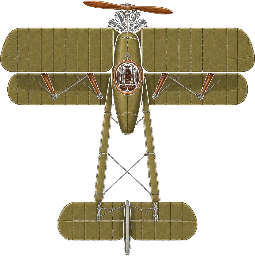
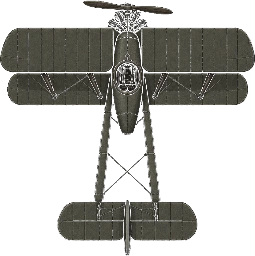
Port PR #92 Bloody April formation rework (Naval 10 Black Flight) + bug drone sprite tint

diff --git a/headon-stageboss-patterns.js b/headon-stageboss-patterns.js
@@ -22,8 +22,8 @@ export const BOSS_CATALOG = Object.freeze({
   ,'armored-harbor-fortress': {name:'장갑 크레인 항구요새', faction:'neutral', stage:7}
   ,'fliegerzug': {name:'무인기 모함열차 · 플리거주크', faction:'entente', stage:8}
   ,'treffas-wagen': {name:'대공개조형 트레파스바겐 · 거륜 육상전함', faction:'central', stage:8}
-  ,'jasta11-circus': {name:'야스타 11 · 붉은 서커스', faction:'central', stage:9}
-  ,'fe2b-flight': {name:'F.E.2b 비행 관 편대', faction:'entente', stage:9}
+  ,'jasta11-circus': {name:'야스타 11 플라잉 서커스', faction:'central', stage:9, pilot:'baron', formationSize:5}
+  ,'naval10-black-flight': {name:'네이벌 10 — 블랙 플라이트', faction:'entente', stage:9, pilot:'collishaw', formationSize:5}
 });
 const living = players => players.filter(p => p.alive);
 const randBetween = (rng,a,b) => a + (b-a)*rng();
@@ -672,15 +672,14 @@ export class TreffasWagen extends PatternBoss {
   }
 }
 
-// Bloody April (stage 9): the boss is a multi-aircraft wing, not a vehicle.
-// The body IS the formation leader — it flies like an ace and keeps
-// respawning wingmen on station. Killing the leader ends the encounter even
-// with wingmen still airborne.
+// Bloody April (stage 9): the body is the formation leader.  Its four named
+// wingmen are real, destructible aircraft and are launched once only.  Losing
+// a member permanently removes that attack lane or pair for the encounter.
 class FormationAceBoss extends PatternBoss {
-  constructor({wingman,...options}) {
+  constructor({wingmen,...options}) {
     super({...options,parts:[]});
-    this.coreRadius=30;this.ownsMotion129=true;this.a=-Math.PI/2;this.support129=true;
-    this.phase='intercept';this.wingman=wingman;this.slotCursor=0;this.timers.set('wing-spawn',0);
+    this.coreRadius=30;this.ownsMotion129=true;this.a=-Math.PI/2;this.formationBoss129=true;
+    this.phase='intercept';this.wingmen=wingmen;this.formationTotal=wingmen.length+1;this.wingLaunched=false;
   }
   steer(dt,tx,ty,turnRate){
     const a=Math.atan2(ty-this.y,tx-this.x),delta=Math.atan2(Math.sin(a-this.a),Math.cos(a-this.a));
@@ -692,65 +691,80 @@ class FormationAceBoss extends PatternBoss {
     this.x=Math.max(bounds.left+36,Math.min(bounds.right-36,this.x));
     this.y=Math.max(bounds.top+36,Math.min(bounds.bottom-36,this.y));
   }
-  // Wingmen stream in from just above the visible top edge and slot behind
-  // the leader; the escort behavior keeps them there.
-  maintainWing(dt,{bounds}){
-    if(!this.due('wing-spawn',dt,this.wingman.respawnEvery))return;
-    const span=bounds.right-bounds.left;let issued=0;
-    while((this.countMinions129?.()||0)<this.wingman.count&&issued++<this.wingman.count){
-      const i=this.slotCursor++;
-      const x=bounds.left+span*((i%4)+.5)/4,y=bounds.top-70;
-      this.command('spawn-minion',{minion:this.wingman.minion,faction:this.faction,plane:this.wingman.liveries[i%this.wingman.liveries.length],
-        behavior:this.wingman.behavior,leaderId:this.id,rearGunner:!!this.wingman.rearGunner,
-        formationIndex:i%this.wingman.count,formationCount:this.wingman.count,
-        x,y,a:Math.PI/2,life:this.wingman.life,fire:this.wingman.fire,maxSpeed:this.wingman.maxSpeed});
+  liveWingmen(){return this.formationStatus129?.()||[];}
+  launchWing(bounds){
+    if(this.wingLaunched)return;this.wingLaunched=true;
+    const span=bounds.right-bounds.left,hp=Math.max(90,Math.round(this.t.maxHp*.072));
+    for(let i=0;i<this.wingmen.length;i++){
+      const wing=this.wingmen[i],x=bounds.left+span*(i+.5)/this.wingmen.length,y=bounds.top-76-(i%2)*28;
+      this.command('spawn-minion',{minion:'formation-fighter',faction:this.faction,plane:wing.plane,behavior:wing.behavior,leaderId:this.id,
+        formationIndex:i,formationCount:this.wingmen.length,formationRole:wing.role,formationSide:wing.side,formationRank:wing.rank,
+        pairId:wing.pairId,callSign:wing.callSign,name:wing.callSign,x,y,a:Math.PI/2,life:1e9,fire:.45+i*.11,
+        maxSpeed:wing.maxSpeed,hp,visualScale:1,persistent:true});
     }
+  }
+  setFormationPhase(phase,p,age,duration){
+    const velocity=Math.hypot(p.vx||0,p.vy||0),heading=velocity>18?Math.atan2(p.vy,p.vx):(Number.isFinite(p.a)?p.a:-Math.PI/2);
+    if(this.phase!==phase){this.phase=phase;this.command('phase-change',{phase});
+      if(['concentrated-assault','sun-hunt','headon-assault'].includes(phase))this.command('reentry-warning',{x:this.x,y:this.y,targetX:p.x,targetY:p.y,seconds:.75});}
+    this.formationOrder={phase,age,duration,playerX:p.x,playerY:p.y,playerHeading:heading};
   }
 }
 export class JastaCircus extends FormationAceBoss {
   constructor(options) {
-    super({...options,kind:'jasta11-circus',wingman:{minion:'circus-wing',behavior:'circus-escort',count:4,respawnEvery:3.0,life:90,fire:1.05,maxSpeed:235,
-      liveries:['jasta11a_albatros','jasta11b_albatros','jasta11c_albatros','jasta11d_albatros']}});
-    this.speed=196;this.aceCycle=0;
+    super({...options,kind:'jasta11-circus',wingmen:[
+      {role:'left-outer',side:-1,rank:1,plane:'jasta11a_albatros',callSign:'Kurt Wolff',behavior:'jasta-formation',maxSpeed:235},
+      {role:'left-inner',side:-1,rank:0,plane:'jasta11b_albatros',callSign:'Karl Allmenröder',behavior:'jasta-formation',maxSpeed:232},
+      {role:'right-inner',side:1,rank:0,plane:'jasta11c_albatros',callSign:'Karl Emil Schaefer',behavior:'jasta-formation',maxSpeed:232},
+      {role:'right-outer',side:1,rank:1,plane:'jasta11d_albatros',callSign:'Lothar von Richthofen',behavior:'jasta-formation',maxSpeed:235}
+    ]});
+    this.leaderPilot='baron';this.callSign='Manfred von Richthofen';this.speed=196;this.aceCycle=0;
   }
   update(dt,{players,bounds}) {
     const p=living(players).reduce((m,q)=>!m||Math.hypot(q.x-this.x,q.y-this.y)<Math.hypot(m.x-this.x,m.y-this.y)?q:m,null);if(!p)return;
-    this.aceCycle+=dt;
-    // Richthofen orbits above the fight, then dives through it. The bracket
-    // pressure meanwhile comes from the wingmen's crossing fire.
-    const dive=(this.aceCycle%12)>7.4;
-    if(dive)this.steer(dt,p.x+(p.vx||0)*.3,p.y+(p.vy||0)*.3,3.0);
-    else{const ang=this.aceCycle*.85;this.steer(dt,p.x+Math.cos(ang)*360,p.y-230+Math.sin(ang)*140,1.7);}
-    this.move(dt,this.speed*(dive?1.3:.82),bounds);
+    this.launchWing(bounds);this.aceCycle+=dt;const cycle=this.aceCycle%24;
+    const [phase,age,duration]=cycle<6?['encirclement',cycle,6]:cycle<12.5?['echelon-assault',cycle-6,6.5]:cycle<19?['concentrated-assault',cycle-12.5,6.5]:['sun-hunt',cycle-19,5];
+    this.setFormationPhase(phase,p,age,duration);const h=this.formationOrder.playerHeading,hx=Math.cos(h),hy=Math.sin(h),nx=-hy,ny=hx;
+    let tx=p.x-hx*260,ty=p.y-hy*260,turn=1.65,mult=.86;
+    if(phase==='echelon-assault'){tx=p.x-hx*330+nx*170;ty=p.y-hy*330+ny*170;turn=2.05;mult=1.02;}
+    if(phase==='concentrated-assault'){const commit=age>3.25;tx=commit?p.x+(p.vx||0)*.45:p.x-hx*290;ty=commit?p.y+(p.vy||0)*.45:p.y-hy*290;turn=commit?3.15:1.8;mult=commit?1.34:.9;}
+    if(phase==='sun-hunt'){tx=age<2?p.x+nx*310-hx*250:p.x+(p.vx||0)*.55;ty=age<2?p.y+ny*310-hy*250:p.y+(p.vy||0)*.55;turn=3.25;mult=age<2?1.05:1.42;}
+    this.steer(dt,tx,ty,turn);this.move(dt,this.speed*mult,bounds);
     const {pa,rel,dist}=this.aimAt(p);
-    if(Math.abs(rel)<.5&&dist<640&&this.due('jasta-mg',dt,dive?.8:1.2)){
+    const committed=phase==='concentrated-assault'&&age>3.25||phase==='sun-hunt'&&age>2;
+    if(Math.abs(rel)<.48&&dist<640&&this.due('jasta-mg',dt,committed?.62:1.18)){
       const mx=this.x+Math.cos(this.a)*32,my=this.y+Math.sin(this.a)*32;
       this.fan(mx,my,pa,2,.08,this.t.bulletSpeed*1.15,'jasta-mg');this.command('muzzle',{x:mx,y:my});
     }
-    this.maintainWing(dt,{bounds});
+    this.formationOrder.leaderCommitted=committed;this.formationOrder.liveRoles=this.liveWingmen().map(w=>w.role);
   }
 }
-export class Fe2bFlight extends FormationAceBoss {
+export class Naval10BlackFlight extends FormationAceBoss {
   constructor(options) {
-    super({...options,kind:'fe2b-flight',wingman:{minion:'pusher-plane',behavior:'pusher-escort',count:5,respawnEvery:4.2,life:110,fire:1.5,maxSpeed:150,rearGunner:true,
-      liveries:['fe2b']}});
-    this.speed=108;this.orbitDir=1;
+    super({...options,kind:'naval10-black-flight',wingmen:[
+      {role:'a-bait',pairId:'a',side:-1,rank:0,plane:'collishaw_sopwith',callSign:'Black Prince',behavior:'black-flight-formation',maxSpeed:238},
+      {role:'a-hunter',pairId:'a',side:-1,rank:1,plane:'collishaw_sopwith',callSign:'Black Death',behavior:'black-flight-formation',maxSpeed:242},
+      {role:'b-bait',pairId:'b',side:1,rank:0,plane:'collishaw_sopwith',callSign:'Black Roger',behavior:'black-flight-formation',maxSpeed:238},
+      {role:'b-hunter',pairId:'b',side:1,rank:1,plane:'collishaw_sopwith',callSign:'Black Sheep',behavior:'black-flight-formation',maxSpeed:242}
+    ]});
+    this.leaderPilot='collishaw';this.callSign='Black Maria';this.speed=202;this.aceCycle=0;
   }
   update(dt,{players,bounds}) {
     const p=living(players).reduce((m,q)=>!m||Math.hypot(q.x-this.x,q.y-this.y)<Math.hypot(m.x-this.x,m.y-this.y)?q:m,null);if(!p)return;
-    // Slow defensive ring over the field — the flight lumbers in a wide
-    // circle near the player rather than chasing.
-    const ang=this.motionTime*.32*this.orbitDir,tx=p.x+Math.cos(ang)*300,ty=p.y+Math.sin(ang)*300*.55-80;
-    this.steer(dt,tx,ty,1.15);
-    this.move(dt,this.speed,bounds);
+    this.launchWing(bounds);this.aceCycle+=dt;const cycle=this.aceCycle%26;
+    const [phase,age,duration]=cycle<6?['pair-split',cycle,6]:cycle<13?['bait-hunter',cycle-6,7]:cycle<20?['cross-attack',cycle-13,7]:['headon-assault',cycle-20,6];
+    this.setFormationPhase(phase,p,age,duration);const h=this.formationOrder.playerHeading,hx=Math.cos(h),hy=Math.sin(h),nx=-hy,ny=hx;
+    let tx=p.x-hx*300,ty=p.y-hy*300,turn=1.7,mult=.88;
+    if(phase==='bait-hunter'){tx=p.x-hx*330+nx*Math.sin(age*.7)*110;ty=p.y-hy*330+ny*Math.sin(age*.7)*110;}
+    if(phase==='cross-attack'){tx=p.x-hx*250-nx*190;ty=p.y-hy*250-ny*190;turn=2;mult=1.02;}
+    if(phase==='headon-assault'){const commit=age>2.7;tx=commit?p.x+(p.vx||0)*.5:p.x+hx*330;ty=commit?p.y+(p.vy||0)*.5:p.y+hy*330;turn=commit?3.3:2.1;mult=commit?1.42:1.02;}
+    this.steer(dt,tx,ty,turn);this.move(dt,this.speed*mult,bounds);
     const {pa,rel,dist}=this.aimAt(p);
-    if(dist<580&&this.due('fe2b-gun',dt,1.35)){
-      // Pusher nose gun forward, observer Lewis gun aft — the rear arc is the
-      // dangerous one for anyone trying to tail them.
-      if(Math.abs(rel)>2.1){const mx=this.x-Math.cos(this.a)*30,my=this.y-Math.sin(this.a)*30;this.fan(mx,my,pa,2,.1,this.t.bulletSpeed*.95,'fe2b-rear');this.command('muzzle',{x:mx,y:my});}
-      else if(Math.abs(rel)<.55){const mx=this.x+Math.cos(this.a)*30,my=this.y+Math.sin(this.a)*30;this.fan(mx,my,pa,1,0,this.t.bulletSpeed,'fe2b-nose');this.command('muzzle',{x:mx,y:my});}
+    const committed=phase==='headon-assault'&&age>2.7;
+    if(Math.abs(rel)<.46&&dist<610&&this.due('black-maria-gun',dt,committed?.56:1.28)){
+      const mx=this.x+Math.cos(this.a)*30,my=this.y+Math.sin(this.a)*30;this.fan(mx,my,pa,committed?2:1,.07,this.t.bulletSpeed*1.12,'black-flight-mg');this.command('muzzle',{x:mx,y:my});
     }
-    this.maintainWing(dt,{bounds});
+    const live=this.liveWingmen();this.formationOrder.liveRoles=live.map(w=>w.role);this.formationOrder.completePairs=['a','b'].filter(id=>live.filter(w=>w.pairId===id).length===2);
   }
 }
 
@@ -758,7 +772,7 @@ const constructors={'paris-gun':ParisGun,lincomparable:LIncomparable,'sms-stuttg
   'zeppelin-l70':ZeppelinL70,hma23:HMA23,'a7v-flak':A7VFlak,'mark-v-cruiser':MarkVCruiser,
   'livens-flame-projector':LivensFlameProjector,'minenwerfer-battery':MinenwerferBattery,
   'london-apron':LondonApron,'drachen-net':DrachenMineNet,gik:GIK,ca4:Ca4,'armored-harbor-fortress':ArmoredHarborFortress,
-  fliegerzug:Fliegerzug,'treffas-wagen':TreffasWagen,'jasta11-circus':JastaCircus,'fe2b-flight':Fe2bFlight};
+  fliegerzug:Fliegerzug,'treffas-wagen':TreffasWagen,'jasta11-circus':JastaCircus,'naval10-black-flight':Naval10BlackFlight};
 export function createBossEncounter({id,bossId,tuning,x,y,emit,rng,faction}) {
   const entry=BOSS_CATALOG[bossId],Ctor=constructors[bossId];if(!Ctor)throw new Error('Unknown boss: '+bossId);
   const body=new Ctor({id:id+':body',tuning,x,y,emit,rng,faction:faction||entry.faction,coreRadius:tuning.coreRadius||100});

diff --git a/stageboss-host.js b/stageboss-host.js
@@ -68,11 +68,14 @@ export function enableStageBoss(g,{teamFaction,heavyHp=1}={}){
     x:spec.x,y:spec.y,escortPlane:spec.plane||(spec.minion==='seaplane'||spec.minion==='seaplane-central'?'hansa_brandenburg_cc':spec.minion==='seaplane-entente'?'macchi_m5':spec.minion==='sopwith-camel'?'camel':spec.minion==='airship'?undefined:spec.faction==='central'?'albatros':'sopwith'),
     surface:spec.minion==='autocannon',stationary:spec.minion==='autocannon',groundEscort:spec.minion==='autocannon',a:spec.minion==='autocannon'?(spec.vx<0?Math.PI:0):(spec.a??e.a),vx:spec.vx||0,life:spec.life??(spec.behavior==='attack-pass'?6.2:spec.minion==='airship'?90:18),fire:spec.fire??1.2,
     passTargetX:spec.passTargetX,passTargetY:spec.passTargetY,formationIndex:spec.formationIndex,formationCount:spec.formationCount,supportInvulnUntil:g.t+(spec.invulnerableSeconds||0),
-    escortLeaderId:spec.leaderId,rearGunner:!!spec.rearGunner,maxSpeed:spec.maxSpeed});
-   if(spec.minion==='bug')Object.assign(e,{bugDrone:true,hp:Math.max(12,Math.round(e.maxHp*.35)),maxHp:Math.max(12,Math.round(e.maxHp*.35)),speed:spec.speed??166,contactDamage:spec.contactDamage??14,fire:Infinity});
+    escortLeaderId:spec.leaderId,rearGunner:!!spec.rearGunner,maxSpeed:spec.maxSpeed,formationRole:spec.formationRole,formationSide:spec.formationSide,formationRank:spec.formationRank,
+    pairId:spec.pairId,callSign:spec.callSign,name:spec.name||spec.callSign||e.name,visualScale:spec.visualScale,missionTarget:!!spec.persistent});
+   if(spec.hp){e.hp=e.maxHp=Math.round(spec.hp*heavyHp);e.coopHpApplied=heavyHp;}
+   if(spec.minion==='bug')Object.assign(e,{bugDrone:true,hp:Math.max(12,Math.round(e.maxHp*.4)),maxHp:Math.max(12,Math.round(e.maxHp*.4)),speed:spec.speed??178,contactDamage:spec.contactDamage??14,fire:Infinity});
    if(spec.minion==='airship')Object.assign(e,{summonDone:true,hp:Math.round(e.maxHp*.5),maxHp:Math.round(e.maxHp*.5),fire:2.6,speed:Math.max(e.speed||0,95)});
   },
   countMinions(id){return g.enemies.filter(e=>e.encounterId===id&&e.bossMinion&&e.hp>0).length;},
+  formationStatus(id){return g.enemies.filter(e=>e.encounterId===id&&e.bossMinion&&e.hp>0).map(e=>({id:e.id,role:e.formationRole,pairId:e.pairId,x:e.x,y:e.y}));},
   onBuildingImpact(event){const b=g.bossBuildings.find(b=>!b.destroyed&&Math.abs(event.x-b.x)<=b.w/2+8&&Math.abs(event.y-b.y)<=b.h/2);if(!b)return false;b.destroyed=true;g.combatBlast(b.x,b.y,55,'enemy','structure');return true;},
   onCue(event){
    const body=g.stageBoss?.stages.encounter?.bodies.get(event.bossId),x=event.x??body?.x??g.x,y=event.y??body?.y??g.y;
@@ -125,6 +128,7 @@ export function enableStageBoss(g,{teamFaction,heavyHp=1}={}){
    // A fresh map starts clean: leftover stragglers must not be sitting on top
    // of the player at the transition moment.
    g.enemies=g.enemies.filter(e=>e.missionTarget||e.stageBossBody||e.navalVessel||e.heavyBomber);
+   if(stageIndex===9){const reserved=new Set(['baron','collishaw']);g.enemies=g.enemies.filter(e=>!reserved.has(e.bossPilot));g.bossDeck=(g.bossDeck||[]).filter(id=>!reserved.has(id));if(reserved.has(g.rivalAce?.pilot)){g.rivalAce.active=null;g.rivalAce.returnAt=Infinity;g.rivalAceNotice=null;}}
    g.bullets=g.bullets.filter(b=>!b.enemy);
    if(previousRegion!==undefined&&previousRegion!==stageIndex)g.events.push({type:'regionTransition',region:stageIndex,previousRegion,text:STAGE_NAMES[stageIndex]});g.event('wave',STAGE_NAMES[stageIndex]+' · '+(loopIndex+1)+'회차');},
   clearEncounterOwned(id){g.enemies=g.enemies.filter(e=>e.encounterId!==id);g.bullets=g.bullets.filter(b=>b.encounterId!==id);g.hostileMinefields=(g.hostileMinefields||[]).filter(f=>f.encounterId!==id);for(const p of players(g))for(const [key,s] of p.bossStatuses||[])if(s.encounterId===id)p.bossStatuses.delete(key);g.bossCues=[];}
@@ -152,12 +156,38 @@ export function damageStageBoss(g,e,b,damage){
  const result=g.stageBoss.hit({bodyId:body.id,...hit,damage,faction:g.teamFaction});
  if(result.damage>0)g.stageBossLastOwner=b.ownerId||'p1';else if(result?.blocked&&hit.partId==='absorb')g.burst(b.x,b.y,'#ffd9a8',5);
 }
+function steerFormationMinion(e,tx,ty,dt,turnRate,speed){
+ const a=Math.atan2(ty-e.y,tx-e.x),delta=Math.atan2(Math.sin(a-e.a),Math.cos(a-e.a));e.a+=clamp(delta,-turnRate*dt,turnRate*dt);
+ const distance=Math.hypot(tx-e.x,ty-e.y),pace=Math.min(e.maxSpeed||speed,Math.max(speed*.72,distance*1.35));e.x+=Math.cos(e.a)*pace*dt;e.y+=Math.sin(e.a)*pace*dt;
+}
+function updateFormationMinion(g,e,p,leader,dt){
+ const order=leader?.formationOrder;if(!order)return false;const h=order.playerHeading??p.a??-Math.PI/2,hx=Math.cos(h),hy=Math.sin(h),nx=-hy,ny=hx,side=e.formationSide||1,rank=e.formationRank||0;
+ let tx,ty,turn=2.45,speed=e.behavior==='black-flight-formation'?210:205;
+ if(e.behavior==='jasta-formation'){
+  if(order.phase==='encirclement'){const lateral=210+rank*92,forward=rank?125:45;tx=p.x+hx*forward+nx*side*lateral;ty=p.y+hy*forward+ny*side*lateral;turn=2.25;}
+  else if(order.phase==='echelon-assault'){const back=110+(e.formationIndex||0)*72;tx=p.x-hx*back+nx*side*34;ty=p.y-hy*back+ny*side*34;turn=2.75;speed=222;}
+  else if(order.phase==='concentrated-assault'){const commit=order.age>2.1+(e.formationIndex||0)*.22,back=commit?-95:205-rank*35;tx=p.x-hx*back+nx*side*(135-rank*24);ty=p.y-hy*back+ny*side*(135-rank*24);turn=commit?3.2:2.45;speed=commit?232:210;}
+  else{tx=leader.x-Math.cos(leader.a)*(115+rank*45)-Math.sin(leader.a)*side*(78+rank*45);ty=leader.y-Math.sin(leader.a)*(115+rank*45)+Math.cos(leader.a)*side*(78+rank*45);turn=2.65;speed=218;}
+  e.pairComplete=true;
+ }else if(e.behavior==='black-flight-formation'){
+  const status=leader.formationStatus129?.()||[],pairComplete=status.filter(w=>w.pairId===e.pairId).length===2,pairSide=e.pairId==='a'?-1:1;e.pairComplete=pairComplete;
+  if(!pairComplete){tx=leader.x-Math.cos(leader.a)*(150+rank*55)-Math.sin(leader.a)*pairSide*105;ty=leader.y-Math.sin(leader.a)*(150+rank*55)+Math.cos(leader.a)*pairSide*105;turn=1.75;speed=188;e.regrouping=true;}
+  else if(order.phase==='pair-split'){tx=p.x+nx*pairSide*255+hx*(rank?105:-55);ty=p.y+ny*pairSide*255+hy*(rank?105:-55);turn=2.15;speed=205;e.regrouping=false;}
+  else if(order.phase==='bait-hunter'){const hunter=e.formationRole?.endsWith('hunter'),forward=hunter?-185:135,lateral=pairSide*(hunter?-55:70);tx=p.x+hx*forward+nx*lateral;ty=p.y+hy*forward+ny*lateral;turn=hunter?3.15:2.45;speed=hunter?235:212;e.regrouping=false;}
+  else if(order.phase==='cross-attack'){const delay=e.pairId==='b'?1.05:0,through=order.age>delay+1.5?1:-1,lateral=pairSide*through*300,stagger=rank?75:-45;tx=p.x+nx*lateral+hx*stagger;ty=p.y+ny*lateral+hy*stagger;turn=3;speed=232;e.regrouping=false;}
+  else{tx=p.x+nx*pairSide*(235+rank*45)-hx*(80+rank*65);ty=p.y+ny*pairSide*(235+rank*45)-hy*(80+rank*65);turn=2.35;speed=210;e.regrouping=false;}
+ }
+ steerFormationMinion(e,tx,ty,dt,turn,speed);return true;
+}
 function updateMinions(g,dt){
  for(const e of g.enemies){if(!e.bossMinion||e.hp<=0)continue;const p=g.enemyCombatTarget(e);if(!p||p.hp<=0)continue;
   e.life=(e.life??18)-dt;if(e.life<=0){e.hp=0;continue}
   if(e.surface){e.x+=e.vx*dt;e.a=e.vx<0?Math.PI:0;const viewH=g.viewHeight||640,floorY=g.y+viewH*.34;e.y=Math.max(e.y,floorY);}else if(e.behavior==='attack-pass'){
    e.passAge=(e.passAge||0)+dt;if(!e.passLocked){const a=Math.atan2((e.passTargetY??p.y)-e.y,(e.passTargetX??p.x)-e.x);e.a=a;e.passLocked=true;e.speed=Math.max(205,e.speed||0);}
    const lane=((e.formationIndex||0)-((e.formationCount||1)-1)/2)*9;e.x+=Math.cos(e.a)*e.speed*dt-Math.sin(e.a)*Math.sin(e.passAge*2.2)*lane*dt;e.y+=Math.sin(e.a)*e.speed*dt+Math.cos(e.a)*Math.sin(e.passAge*2.2)*lane*dt;
+  }else if(e.behavior==='jasta-formation'||e.behavior==='black-flight-formation'){
+   const leader=g.stageBoss?.stages.encounter?.bodies.get(e.escortLeaderId);
+   if(!leader||leader.dead)e.behavior='chase';else updateFormationMinion(g,e,p,leader,dt);
   }else if(e.behavior==='circus-escort'||e.behavior==='pusher-escort'){
    const pusher=e.behavior==='pusher-escort';
    const leader=g.stageBoss?.stages.encounter?.bodies.get(e.escortLeaderId);
@@ -174,8 +204,10 @@ function updateMinions(g,dt){
   }else{const a=Math.atan2(p.y-e.y,p.x-e.x),delta=Math.atan2(Math.sin(a-e.a),Math.cos(a-e.a));e.a+=clamp(delta,-2*dt,2*dt);e.x+=Math.cos(e.a)*e.speed*dt;e.y+=Math.sin(e.a)*e.speed*dt;}
   if(e.behavior==='suicide-dive'&&Math.hypot(e.x-p.x,e.y-p.y)<25){const damage=e.contactDamage??18;if(g.players)g.hitPlayer(p,damage);else g.hit(damage);e.hp=0;g.combatBlast(e.x,e.y,35,'enemy');continue;}
   const aim=Math.atan2(p.y-e.y,p.x-e.x),rel=Math.atan2(Math.sin(aim-(e.a||0)),Math.cos(aim-(e.a||0))),pd=Math.hypot(p.x-e.x,p.y-e.y);
-  const gated=e.behavior==='attack-pass'?e.passAge>.65&&e.passAge<3.4:e.behavior==='circus-escort'?Math.abs(rel)<.62&&pd<580:e.behavior==='pusher-escort'?pd<600:true;
-  e.fire-=dt;if(e.fire<=0&&gated){e.fire=e.surface ? 1.5 : e.type==='zeppelin' ? 3.4 : e.behavior==='attack-pass' ? .48 : e.behavior==='circus-escort' ? 1.05 : e.behavior==='pusher-escort' ? 1.45 : 2.5;const a=e.behavior==='attack-pass'?e.a:aim;const zep=e.type==='zeppelin',rear=e.rearGunner&&Math.abs(rel)>1.9;const shots=zep?3:rear?2:1;for(let j=0;j<shots;j++){const aa=a+(j-1)*(zep?.14:.08),mx=e.x+(zep?Math.cos(e.a)*(j-1)*60:rear?-Math.cos(e.a)*24:0),my=e.y+(zep?Math.sin(e.a)*(j-1)*60:rear?-Math.sin(e.a)*24:0);g.bullets.push({x:mx,y:my,vx:Math.cos(aa)*(zep?185:210),vy:Math.sin(aa)*(zep?185:210),life:zep?5:4,enemy:true,visualType:zep?'zeppelin':e.surface?'flak':'fighter',damage:Math.round((zep?14:9)*(1+g.t/240)),encounterId:e.encounterId});}}
+  const leader=g.stageBoss?.stages.encounter?.bodies.get(e.escortLeaderId),order=leader?.formationOrder,formation=e.behavior==='jasta-formation'||e.behavior==='black-flight-formation';
+  const paired=e.behavior!=='black-flight-formation'||e.pairComplete,phaseReady=order?.phase!=='cross-attack'||order.age>(e.pairId==='b'?1.05:0);
+  const gated=e.behavior==='attack-pass'?e.passAge>.65&&e.passAge<3.4:e.behavior==='circus-escort'?Math.abs(rel)<.62&&pd<580:e.behavior==='pusher-escort'?pd<600:formation?!e.regrouping&&paired&&phaseReady&&Math.abs(rel)<.54&&pd<620:true;
+  e.fire-=dt;if(e.fire<=0&&gated){e.fire=e.surface ? 1.5 : e.type==='zeppelin' ? 3.4 : e.behavior==='attack-pass' ? .48 : e.behavior==='jasta-formation' ? (order?.phase==='echelon-assault'?.78:.98) : e.behavior==='black-flight-formation' ? (order?.phase==='cross-attack'?.76:1.02) : e.behavior==='circus-escort' ? 1.05 : e.behavior==='pusher-escort' ? 1.45 : 2.5;const a=e.behavior==='attack-pass'?e.a:aim;const zep=e.type==='zeppelin',rear=e.rearGunner&&Math.abs(rel)>1.9;const shots=zep?3:rear?2:1;for(let j=0;j<shots;j++){const aa=a+(j-1)*(zep?.14:.08),mx=e.x+(zep?Math.cos(e.a)*(j-1)*60:rear?-Math.cos(e.a)*24:0),my=e.y+(zep?Math.sin(e.a)*(j-1)*60:rear?-Math.sin(e.a)*24:0);g.bullets.push({x:mx,y:my,vx:Math.cos(aa)*(zep?185:210),vy:Math.sin(aa)*(zep?185:210),life:zep?5:4,enemy:true,visualType:zep?'zeppelin':e.surface?'flak':'fighter',damage:Math.round((zep?14:9)*(1+g.t/240)),encounterId:e.encounterId});}}
  }
 }
 export function beginStageBossFrame(g,dt){

diff --git a/boss-feedback.js b/boss-feedback.js
@@ -1,13 +1,13 @@
 // Presentation derived from live boss state. Never changes damage or targeting.
 const pair=(ko,en,locale)=>locale==='en'?en:ko;
-const PHASES={exposed:['본체 노출','Hull exposed'],crippled:['차륜 붕괴 · 제자리 포격','Wheels destroyed · dug in'],enraged:['집중 포격','Concentrated fire'],reveal:['은폐 해제','Cover cleared'],escort:['호위 차량 접근','Ground escorts inbound'],locomotive:['기관차 노출','Locomotive exposed'],'seaplane-support':['수상기 지원편대','Seaplanes inbound'],breached:['외곽 장갑 붕괴','Outer armor breached'],'final-core':['중앙 코어 노출','Command core exposed'],'core-exposed':['코어 노출','Core exposed'],weakened:['포대 약화','Battery weakened'],'final-assault':['최후 돌진','Final assault'],'gas-vent':['연료 가스 분출','Fuel gas venting'],'observer-destroyed':['관측 포격 중단','Spotter silenced'],'winch-destroyed':['기뢰 살포 약화','Mine deployment slowed'],'winch-exposed':['윈치 노출','Winch exposed'],'phase-2':['2단계 전술','Phase II'],'phase-3':['최종 전술','Final phase'],'bombing-run':['폭격 진입','Bombing run'],'bomb-bay-exposed':['폭탄창 개방','Bomb bay open'],'full-sortie':['전력 발진','Full sortie'],'front-last-stand':['전방 선체 최후 돌진','Bow last stand'],'rear-last-stand':['후방 선체 최후 포격','Stern last stand']};
+const PHASES={exposed:['본체 노출','Hull exposed'],crippled:['차륜 붕괴 · 제자리 포격','Wheels destroyed · dug in'],enraged:['집중 포격','Concentrated fire'],reveal:['은폐 해제','Cover cleared'],escort:['호위 차량 접근','Ground escorts inbound'],locomotive:['기관차 노출','Locomotive exposed'],'seaplane-support':['수상기 지원편대','Seaplanes inbound'],breached:['외곽 장갑 붕괴','Outer armor breached'],'final-core':['중앙 코어 노출','Command core exposed'],'core-exposed':['코어 노출','Core exposed'],weakened:['포대 약화','Battery weakened'],'final-assault':['최후 돌진','Final assault'],'gas-vent':['연료 가스 분출','Fuel gas venting'],'observer-destroyed':['관측 포격 중단','Spotter silenced'],'winch-destroyed':['기뢰 살포 약화','Mine deployment slowed'],'winch-exposed':['윈치 노출','Winch exposed'],'phase-2':['2단계 전술','Phase II'],'phase-3':['최종 전술','Final phase'],'bombing-run':['폭격 진입','Bombing run'],'bomb-bay-exposed':['폭탄창 개방','Bomb bay open'],'full-sortie':['전력 발진','Full sortie'],'front-last-stand':['전방 선체 최후 돌진','Bow last stand'],'rear-last-stand':['후방 선체 최후 포격','Stern last stand'],encirclement:['포위 공격','Encirclement'],'echelon-assault':['제대 강습','Echelon assault'],'concentrated-assault':['집중 강습','Concentrated assault'],'sun-hunt':['태양을 등진 사냥꾼','Hunter out of the sun'],'pair-split':['2기조 분산','Pairs split'],'bait-hunter':['미끼와 사냥꾼','Bait and hunter'],'cross-attack':['엇박자 교차공격','Offset cross-attack'],'headon-assault':['헤드온 강습','Head-on assault']};
 export function bossPhaseLabel(phase,locale='ko'){const words=PHASES[phase];return words?words[locale==='en'?1:0]:pair('보스 전술 변화','Boss tactics changed',locale)}
 export const BOSS_NAMES_EN=Object.freeze({
  'paris-gun':'Bruno railway gun',lincomparable:"520mm L’Incomparable",'sms-stuttgart':'SMS Stuttgart','hms-zubian':'HMS Zubian',
  'a7v-flak':'A7V Flakpanzer','mark-v-cruiser':'Mark V land cruiser','livens-flame-projector':'Livens flame projector','minenwerfer-battery':'Minenwerfer battery',
  'drachen-net':'Drachen mine network','london-apron':'London balloon apron','zeppelin-l70':'Zeppelin L 70',hma23:'HMA 23 carrier',gik:'Hansa-Brandenburg G.IK',ca4:'Caproni Ca.4','armored-harbor-fortress':'Armored harbor fortress',
  'fliegerzug':'Fliegerzug drone carrier','treffas-wagen':'Treffas-Wagen landship',
- 'jasta11-circus':'Jasta 11 Red Circus','fe2b-flight':'F.E.2b pusher flight'
+ 'jasta11-circus':'JASTA 11 · FLYING CIRCUS','naval10-black-flight':'NAVAL 10 · BLACK FLIGHT'
 });
 export function bossTactic(encounter,locale='ko'){
  const bodies=[...encounter?.bodies.values()||[]].filter(b=>!b.dead),b=bodies[0];if(!b)return '';
@@ -29,8 +29,8 @@ export function bossTactic(encounter,locale='ko'){
   case 'armored-harbor-fortress':return b.coreVulnerable?text('중앙 지휘시설 노출 · 남은 포대 주의','Command core exposed · watch surviving guns'):b.parts.get('crane-pivot')?.hittable?text('크레인 회전축 노출 · 파괴하면 중앙 코어 개방','Crane pivot exposed · destroy it to open the core'):text('외곽 3부위 파괴 → 회전축 · 탄약고 유폭 활용','Break 3 outer parts → pivot · detonate the ammo store');
   case 'fliegerzug':return b.phase==='runaway'?text('폭주 경로 이탈 → 탈선 후 기관차 공격','Clear the runaway track → strike after derailment'):b.phase==='derailed'?text('탈선 직후 · 노출된 기관차 집중 사격','Derailed · pour fire into the exposed locomotive'):b.coreVulnerable?text('기관차 노출 · 사격 후 이동 경로 추적','Locomotive exposed · follow its launch stops'):gone('car-middle')?text('발사대 파괴됨 · 격납 화차의 호위 출격 차단','Launch car down · stop hangar fighter launches'):gone('car-rear')?text('격납 화차 파괴됨 · 대공 화차와 발사대 공략','Hangar down · break the flak and launch cars'):text('후미 격납 화차부터 순서대로 파괴','Destroy cars rear-first · shoot the rail to halt it');
   case 'treffas-wagen':return b.coreVulnerable?text('본체 노출 · 집중 사격','Hull exposed · concentrate fire'):b.phase==='crippled'?text('차륜 붕괴 · 제자리 포격 중 — 본체 코어 공략','Wheels down · dug-in barrage — hit the hull'):gone('wheel-left')||gone('wheel-right')?text('남은 차륜을 부수면 전진이 멈춤','Break the last wheel to halt its advance'):text('차륜이 뿜는 파편을 피하며 차륜과 포탑 파괴','Dodge debris spray · break wheels and turret');
-  case 'jasta11-circus':return text('편대장(완전 빨간 기체)만 쓰러뜨리면 승리 · 윙맨은 재편성됨','Only the all-red leader counts · wingmen re-form');
-  case 'fe2b-flight':return text('후방 사수 주의 — 꼬리 접근 금지 · 정면에서 편대장 공격','Rear gunners bite — never tail · hit the leader head-on');
+  case 'jasta11-circus':return text('좌우 공격축을 맡은 편대기를 격추해 포위망을 약화 · 리히트호펜 직접 격추 가능','Break the wing attack lanes to weaken the trap · Richthofen is always vulnerable');
+  case 'naval10-black-flight':return text('2기조의 미끼와 사냥꾼을 분리 · 한 기가 사라지면 짝의 협공이 중단됨','Split each bait-hunter pair · losing either aircraft breaks that pair attack');
   default:return '';
  }
 }

diff --git a/app.js b/app.js
@@ -563,7 +563,7 @@ let legendarySignature='';
 const _hud51=hud;
 const RELIC_COOLDOWNS={grunkreuz:{rem:g=>g.grunkreuzOn>0?0:(g.grunkreuzOff??0),iv:()=>LEGENDARY_DEFENSE_BALANCE.grunkreuzOffDuration},rankinShell:{rem:g=>g.rankinTimer??0,iv:()=>LEGENDARY_DEFENSE_BALANCE.rankinInterval},kaiserFog:{rem:g=>g.brockSmokeTimer??g.kaiserFogTimer??0,iv:g=>g.brockSmoke?AUGMENTATION_OVERHAUL_BALANCE.smokeInterval:LEGENDARY_DEFENSE_BALANCE.fogInterval},motorCannon:{rem:g=>g.motorCannonTimer??0,iv:g=>g.ordnanceInterval?g.ordnanceInterval(LEGENDARY_BALANCE.motorCannonInterval):LEGENDARY_BALANCE.motorCannonInterval},sparkPlug:{rem:g=>g.mccuddenRepairTimer??0,iv:()=>AUGMENTATION_OVERHAUL_BALANCE.repairInterval}};
 const soloRelicRefs=[],coopRelicRefs={p1:[],p2:[]};
-const BOSS_CUTIN_ART={'paris-gun':'boss-art-paris-gun.webp?v=340&b=340','lincomparable':'boss-art-lincomparable.webp?v=340&b=340','sms-stuttgart':'boss-art-sms-stuttgart.webp?v=340&b=340','hms-zubian':'boss-art-hms-zubian.webp?v=340&b=340','a7v-flak':'boss-art-a7v-flak.webp?v=340&b=340','mark-v-cruiser':'boss-art-mark-v-cruiser.webp?v=340&b=340','livens-flame-projector':'boss-art-livens-flame-projector.webp?v=340&b=340','minenwerfer-battery':'boss-art-minenwerfer-battery.webp?v=340&b=340','drachen-net':'boss-art-drachen-net.webp?v=340&b=340','london-apron':'boss-art-london-apron.webp?v=340&b=340','zeppelin-l70':'boss-art-zeppelin-l70.webp?v=340&b=340','hma23':'boss-art-hma23.webp?v=340&b=340','gik':'boss-art-gik.webp?v=340&b=340','ca4':'boss-art-ca4.webp?v=340&b=340','armored-harbor-fortress':'boss-art-armored-harbor-fortress.webp?v=340&b=340','fliegerzug':'boss-art-rail-carrier.webp?v=340&b=340','treffas-wagen':'boss-art-treffas-wagen.webp?v=340&b=340'};;
+const BOSS_CUTIN_ART={'paris-gun':'boss-art-paris-gun.webp?v=340&b=340','lincomparable':'boss-art-lincomparable.webp?v=340&b=340','sms-stuttgart':'boss-art-sms-stuttgart.webp?v=340&b=340','hms-zubian':'boss-art-hms-zubian.webp?v=340&b=340','a7v-flak':'boss-art-a7v-flak.webp?v=340&b=340','mark-v-cruiser':'boss-art-mark-v-cruiser.webp?v=340&b=340','livens-flame-projector':'boss-art-livens-flame-projector.webp?v=340&b=340','minenwerfer-battery':'boss-art-minenwerfer-battery.webp?v=340&b=340','drachen-net':'boss-art-drachen-net.webp?v=340&b=340','london-apron':'boss-art-london-apron.webp?v=340&b=340','zeppelin-l70':'boss-art-zeppelin-l70.webp?v=340&b=340','hma23':'boss-art-hma23.webp?v=340&b=340','gik':'boss-art-gik.webp?v=340&b=340','ca4':'boss-art-ca4.webp?v=340&b=340','armored-harbor-fortress':'boss-art-armored-harbor-fortress.webp?v=340&b=340','fliegerzug':'boss-art-rail-carrier.webp?v=340&b=340','treffas-wagen':'boss-art-treffas-wagen.webp?v=340&b=340','jasta11-circus':'portrait-baron.webp?v=340&b=340','naval10-black-flight':'portrait-collishaw.webp?v=340&b=340'};;
 function setBossCutin(imgSrc,name,kicker,detail,side='boss'){$('bossCutin').classList.toggle('skill-side',side==='skill');$('bossCutinImg').src=imgSrc;$('bossCutinImg').alt=name;$('bossCutinKicker').textContent=kicker;$('bossCutinName').textContent=name;$('bossCutinDetail').textContent=detail||''}
 function stageBossCutinCheck(){const sb=game?.stageBoss?.stages;if(sb&&sb.phase==='boss'&&sb.bossId&&sb.bossId!==lastStageBossId){lastStageBossId=sb.bossId;const nm=(getLocale()==='en'?BOSS_NAMES_EN[sb.bossId]:BOSS_CATALOG[sb.bossId]?.name)||sb.bossId;setBossCutin(BOSS_CUTIN_ART[sb.bossId]||'',nm,getLocale()==='en'?'AREA BOSS':'지역 보스',bossTactic(sb.encounter,getLocale()));$('bossWarnSub').textContent=nm+' · AREA BOSS INBOUND';show('bossWarning');{const warningRun=game,warningBoss=sb.encounter;setTimeout(()=>{if(game===warningRun&&game?.stageBoss?.stages.encounter===warningBoss)show('bossWarning',false)},1600)}bossCardFrom=performance.now()+1400;bossCutinUntil=bossCardFrom+2600;sfx('bossSting');{const run=game,encounter=sb.encounter;const later=(name,delay)=>setTimeout(()=>{if(game===run&&run.stageBoss?.stages.encounter===encounter&&run.state==='playing'&&!regionTransitionUntil&&!document.hidden)sfx(name)},delay);later('bossSting',620);if(['paris-gun','lincomparable','fliegerzug'].includes(sb.bossId))later('trainWhistle',380);if(BOSS_CATALOG[sb.bossId]?.stage===1)later('shipHorn',420)}}}
 function paintRelicBadge(rb){const c=rb.ctx,spec=RELIC_COOLDOWNS[rb.id],owner=rb.owner();let prog=1;if(spec&&owner){const iv=spec.iv(owner)||1;prog=Math.max(0,Math.min(1,1-Math.max(0,spec.rem(owner))/iv))}c.clearRect(0,0,48,48);if(prog>=1){drawGameIcon(c,rb.key,24,24,42);return}c.globalAlpha=.32;drawGameIcon(c,rb.key,24,24,42);c.globalAlpha=1;c.save();c.beginPath();c.moveTo(24,24);c.arc(24,24,26,-Math.PI/2,-Math.PI/2+prog*Math.PI*2);c.closePath();c.clip();drawGameIcon(c,rb.key,24,24,42);c.restore();if(prog>0&&prog<1){c.save();c.strokeStyle='#ffe9a8';c.lineWidth=2;c.beginPath();c.arc(24,24,21,-Math.PI/2,-Math.PI/2+prog*Math.PI*2);c.stroke();c.restore()}}

diff --git a/stageboss-view.js b/stageboss-view.js
@@ -267,7 +267,7 @@ export function updateStageBossHud(g){
  const active=!!g?.stageBoss&&g.state!=='lost'&&g.stageBoss.stages.phase!=='clear-pending',model=active?bossHudModel(g.stageBoss.stages.encounter):null;
  document.body.classList.toggle('stageboss-playing',active);
  const slot=document.getElementById('stageBossHud');slot.classList.toggle('hidden',!model);
- if(model){const en=getLocale()==='en';document.getElementById('stageBossTitle').textContent=(en?(BOSS_NAMES_EN[model.bossId]||model.name):model.name)+(g.stageBoss.defeatSequence?(en?' · BREAKING UP':' · 붕괴 중'):model.shielded?(en?' · ARMORED':' · 본체 보호'):'');document.getElementById('stageBossParts').textContent=(en?'Parts ':'부위 ')+model.aliveParts+'/'+model.totalParts+' · '+Math.ceil(model.hp)+' / '+Math.round(model.maxHp);let hint=document.getElementById('stageBossTactic');if(!hint){hint=document.createElement('small');hint.id='stageBossTactic';slot.append(hint)}const tactic=bossTactic(g.stageBoss.stages.encounter,getLocale());if(hint.textContent!==tactic)hint.textContent=tactic;const bar=document.getElementById('stageBossHp');bar.style.width=model.fraction*100+'%';slot.setAttribute('aria-valuenow',String(Math.ceil(model.hp)));slot.setAttribute('aria-valuemax',String(Math.round(model.maxHp)));}
+ if(model){const en=getLocale()==='en';document.getElementById('stageBossTitle').textContent=(en?(BOSS_NAMES_EN[model.bossId]||model.name):model.name)+(g.stageBoss.defeatSequence?(en?' · BREAKING UP':' · 붕괴 중'):model.shielded?(en?' · ARMORED':' · 본체 보호'):'');document.getElementById('stageBossParts').textContent=(model.formationTotal?(en?'Formation ':'편대 생존 ')+model.formationAlive+'/'+model.formationTotal:(en?'Parts ':'부위 ')+model.aliveParts+'/'+model.totalParts)+' · '+Math.ceil(model.hp)+' / '+Math.round(model.maxHp);let hint=document.getElementById('stageBossTactic');if(!hint){hint=document.createElement('small');hint.id='stageBossTactic';slot.append(hint)}const tactic=bossTactic(g.stageBoss.stages.encounter,getLocale());if(hint.textContent!==tactic)hint.textContent=tactic;const bar=document.getElementById('stageBossHp');bar.style.width=model.fraction*100+'%';slot.setAttribute('aria-valuenow',String(Math.ceil(model.hp)));slot.setAttribute('aria-valuemax',String(Math.round(model.maxHp)));}
  const coop=active&&g.mode==='coop2';document.getElementById('coopXpHud').classList.toggle('hidden',!coop);
  if(coop)for(const p of g.players){document.getElementById(p.id+'XpLabel').textContent=p.id.toUpperCase()+' · LV. '+p.level;document.getElementById(p.id+'XpBar').style.width=Math.min(100,p.xp/p.need*100)+'%';}
 }
@@ -337,7 +337,7 @@ export function drawStageBoss(c,g,W,H,{drawZeppelin,drawFieldArt,layer='all'}){
     c.rotate((b.assetKey==='armored-harbor-fortress'?-1:1)*wreck*.3);
     c.globalAlpha*=Math.max(0,1-wreck*.9);
    }
-   const ship=b.assetKey.startsWith('hms-zubian')||b.assetKey==='sms-stuttgart',rail=['paris-gun','lincomparable','fliegerzug'].includes(b.assetKey),structure=['livens-flame-projector','minenwerfer-battery','treffas-wagen'].includes(b.assetKey),plane=['jasta11-circus','fe2b-flight'].includes(b.assetKey);
+   const ship=b.assetKey.startsWith('hms-zubian')||b.assetKey==='sms-stuttgart',rail=['paris-gun','lincomparable','fliegerzug'].includes(b.assetKey),structure=['livens-flame-projector','minenwerfer-battery','treffas-wagen'].includes(b.assetKey),plane=['jasta11-circus','naval10-black-flight'].includes(b.assetKey);
    if(ship){for(let i=0;i<12;i++){const drift=(b.motionTime*32+i*13)%155;c.fillStyle=i%2?'#d7f1de99':'#6eb9b777';const w=18+drift*.3;c.fillRect(-w/2,125+drift,w,4);}}
 
    // Churned-earth trail under the Treffas-Wagen, in world space before any scale.
@@ -399,9 +399,8 @@ export function drawStageBoss(c,g,W,H,{drawZeppelin,drawFieldArt,layer='all'}){
    }
    else if(plane){
     // Formation bosses fly painted aircraft sprites, not composite vehicles.
-    const key=b.assetKey==='jasta11-circus'?'baron_albatros':'fe2b';
-    const scale=b.assetKey==='jasta11-circus'?1.55:1.9;
-    planeSprite(c,0,0,(b.a??-Math.PI/2),key,scale,true,false,b.hitFlash||0,b.hp<=b.maxHp*.5);
+    const key=b.assetKey==='jasta11-circus'?'baron_albatros':'collishaw_sopwith';
+    planeSprite(c,0,0,(b.a??-Math.PI/2),key,1,true,false,b.hitFlash||0,b.hp<=b.maxHp*.5);
    }
    else drawBossArt(c,'markv',172,258);
    if(sinking){const foam=sinkFoamArt.foam;

diff --git a/engine.js b/engine.js
@@ -22,6 +22,8 @@ export {BATTLE_DIRECTOR_BALANCE,BATTLE_DIRECTOR_PATTERNS};
 export {BATTLEFIELD_EVENT_BALANCE,BATTLEFIELD_EVENT_TYPES};
 export {RIVAL_ACE_BALANCE,RIVAL_ACE_PHASES};
 export {BUILD_IDENTITIES,BUILD_IDENTITY_LIMIT,buildIdentityFor};
+const BLOODY_APRIL_BOSS_PILOTS=new Set(['baron','collishaw']);
+const stageAceEligible=(game,id)=>game.worldRegion?.()!==9||!BLOODY_APRIL_BOSS_PILOTS.has(id);
 // Pilot balance pass 89: role-aware cooldowns; shared by solo, campaign and co-op.
 export const PILOT_BALANCE=Object.freeze({
  cooldowns:Object.freeze({baron:18,baron_albatros:18,fonck:16,voss:12,boelcke:12,collishaw:20,baracca:12,udet:18,guynemer:22,bishop:22,goering:22,immelmann:14,mannock:28,mckeever:20,huffzky:20,wolff:18,loewenhardt:17,mccudden:24,nungesser:20,jacobs:16}),
@@ -401,14 +403,14 @@ Game.prototype.spawnEnemy=function(type){
  if(type==='boss'){
   const live=new Set(this.enemies.filter(e=>e.hp>0&&e.bossPilot).map(e=>e.bossPilot));
   if(live.size>=8)return;
-  const available=Object.keys(PILOTS).filter(id=>PILOTS[id].faction!==PLANES[this.plane].faction&&!live.has(id));
+  const available=Object.keys(PILOTS).filter(id=>PILOTS[id].faction!==PLANES[this.plane].faction&&!live.has(id)&&stageAceEligible(this,id));
   this.bossDeck=[...new Set(this.bossDeck||[])].filter(id=>available.includes(id));
   if(!this.bossDeck.length){this.bossDeck=available;for(let i=this.bossDeck.length-1;i>0;i--){const j=Math.floor(this.rng()*(i+1));[this.bossDeck[i],this.bossDeck[j]]=[this.bossDeck[j],this.bossDeck[i]]}}
   if(!this.bossDeck.length)return;
  }
  _worldSpawn.call(this,type);const e=this.enemies.at(-1);e.ace=false;if(type==='zeppelin'){e.hp=e.maxHp=Math.round(e.hp*1.6);e.hitRadius=90;e.hullLength=170;e.hullWidth=45;}
  if(type!=='boss')return;
- if(!this.bossDeck?.length){this.bossDeck=Object.keys(PILOTS).filter(id=>PILOTS[id].faction!==PLANES[this.plane].faction);for(let i=this.bossDeck.length-1;i>0;i--){const j=Math.floor(this.rng()*(i+1));[this.bossDeck[i],this.bossDeck[j]]=[this.bossDeck[j],this.bossDeck[i]]}}
+ if(!this.bossDeck?.length){this.bossDeck=Object.keys(PILOTS).filter(id=>PILOTS[id].faction!==PLANES[this.plane].faction&&stageAceEligible(this,id));for(let i=this.bossDeck.length-1;i>0;i--){const j=Math.floor(this.rng()*(i+1));[this.bossDeck[i],this.bossDeck[j]]=[this.bossDeck[j],this.bossDeck[i]]}}
  const threatWeight=.12+.88*Math.min(1,this.t/600);const weights=this.bossDeck.map(id=>['baron','fonck'].includes(id)?threatWeight:1);let roll=this.rng()*weights.reduce((a,b)=>a+b,0),pick=weights.length-1;for(let i=0;i<weights.length;i++){roll-=weights[i];if(roll<=0){pick=i;break}}
  e.bossPilot=this.bossDeck.splice(pick,1)[0];e.bossPlane=PILOT_PLANES[e.bossPilot];e.name=PILOTS[e.bossPilot].name;e.ace=true;
  e.hp=e.maxHp=Math.round(700*(1+this.t/150));e.abilityTimer=4;e.fire=.8;e.encounterPending=true;e.aceSpawnT=this.t;if(e.bossPilot==='baron')e.speed*=2.4;
@@ -1177,10 +1179,11 @@ Game.prototype.aceWaveCount=function(time=this.t){return Math.min(8,time>=720?5+
 Game.prototype.nextAceWaveAt=function(time=this.t){return time<185?185:time<300?300:time<420?420:time<600?600:time<720?720:720+(Math.floor((time-720)/120)+1)*120};
 Game.prototype.prepareBossWave=function(count){
  const live=new Set(this.enemies.filter(e=>e.hp>0&&e.bossPilot).map(e=>e.bossPilot));
- const available=Object.keys(PILOTS).filter(id=>PILOTS[id].faction!==PLANES[this.plane].faction&&!live.has(id));
+ const available=Object.keys(PILOTS).filter(id=>PILOTS[id].faction!==PLANES[this.plane].faction&&!live.has(id)&&stageAceEligible(this,id));
  count=Math.min(count,8-live.size,available.length);
+ this.bossDeck=[...new Set(this.bossDeck||[])].filter(id=>available.includes(id));
  if((this.bossDeck?.length||0)>=count)return count;
- this.bossDeck=Object.keys(PILOTS).filter(id=>PILOTS[id].faction!==PLANES[this.plane].faction);
+ this.bossDeck=[...available];
  for(let i=this.bossDeck.length-1;i>0;i--){const j=Math.floor(this.rng()*(i+1));[this.bossDeck[i],this.bossDeck[j]]=[this.bossDeck[j],this.bossDeck[i]]}
  return count;
 };

diff --git a/transition-tips188.js b/transition-tips188.js
@@ -66,9 +66,9 @@ export const REGION_TRANSITION_TIPS=Object.freeze({
   {id:'cambrai-wheels',ko:'트레파스바겐은 차륜을 부수면 전진이 멈춥니다.',en:'Breaking the Treffas-Wagen wheels halts its advance.'}
  ]),
  9:Object.freeze([
- {id:'arras-leader',ko:'붉은 서커스는 편대장을 격추하면 전투가 끝납니다.',en:'Down the red circus leader to end the fight.'},
- {id:'arras-wingmen',ko:'윙맨은 편대장이 살아있는 한 계속 재편성됩니다.',en:'Wingmen keep re-forming while the leader lives.'},
- {id:'arras-rear',ko:'푸셔 편대는 꼬리 뒤에서도 사격합니다 — 후방 접근에 주의하세요.',en:'Pusher crews still shoot when you are behind — mind the rear approach.'}
+ {id:'arras-leader',ko:'편대장은 강제 무적이 없습니다. 기회가 보이면 직접 격추할 수 있습니다.',en:'Formation leaders are never invulnerable — take the shot when the lane opens.'},
+ {id:'arras-wingmen',ko:'격추한 편대기는 돌아오지 않습니다. Jasta 11의 해당 공격 방향도 함께 약화됩니다.',en:'Destroyed wingmen do not return; their Jasta 11 attack lane disappears with them.'},
+ {id:'arras-rear',ko:'Black Flight는 2기조로 서로의 꼬리를 지킵니다. 한 기를 떼어내 협공을 끊으세요.',en:'Black Flight protects tails in pairs. Split a pair to break its counterattack.'}
  ])
 });
 

diff --git a/headon-stageboss-runtime.js b/headon-stageboss-runtime.js
@@ -53,7 +53,7 @@ export class StageBossAddon {
     if(bossId==='fliegerzug')tuning={...tuning,railCycle:11,warningSeconds:1.7};
     const entry=BOSS_CATALOG[bossId],faction=entry.faction==='neutral'?(this.stages.teamFaction==='central'?'entente':'central'):entry.faction;
     const encounter=createBossEncounter({id,bossId,tuning,x,y,rng:this.rng,faction,emit:event=>this.accept(event,id,tuning)});
-    for(const b of encounter.bodies.values())if(b.support129)b.countMinions129=()=>this.hooks.countMinions(id);this.defeatSequence=null;this.bodyDefeats=[];this.stages.attach(encounter);this.hooks.onCue({type:'boss-enter',encounterId:id,bossId});return encounter;
+    for(const b of encounter.bodies.values())if(b.support129||b.formationBoss129){b.countMinions129=()=>this.hooks.countMinions(id);b.formationStatus129=()=>this.hooks.formationStatus?.(id)||[];}this.defeatSequence=null;this.bodyDefeats=[];this.stages.attach(encounter);this.hooks.onCue({type:'boss-enter',encounterId:id,bossId});return encounter;
   }
   accept(event,encounterId,tuning) {
     if(this.ended)return;

diff --git a/headon-stageboss-core.js b/headon-stageboss-core.js
@@ -76,11 +76,12 @@ export class BossEncounter {
     if(typeof b.suppressive==='function')b.suppressive(dt,ctx.players);
   }}
   snapshot() {
-    let hp=0,aliveParts=0,totalParts=0,shielded=false;const phases=[];
+    let hp=0,aliveParts=0,totalParts=0,shielded=false,formationAlive=0,formationTotal=0;const phases=[];
     for(const b of this.bodies.values()){
       hp+=Math.max(0,b.hp);shielded||=!b.dead&&!b.coreVulnerable;phases.push(b.phase);
+      if(b.formationTotal){formationTotal+=b.formationTotal;formationAlive+=b.dead?0:1+(b.formationStatus129?.().length||0);}
       for(const p of b.parts.values()){totalParts++;if(!p.destroyed)aliveParts++;}
     }
-    return{id:this.id,bossId:this.bossId,hp,maxHp:this.maxHpBudget,shielded,aliveParts,totalParts,phases,completed:this.completed};
+    return{id:this.id,bossId:this.bossId,hp,maxHp:this.maxHpBudget,shielded,aliveParts,totalParts,formationAlive,formationTotal,phases,completed:this.completed};
   }
 }

diff --git a/headon-stageboss-hud.js b/headon-stageboss-hud.js
@@ -21,7 +21,7 @@ export function bindStageBossHUD({bossSlot,xpBindings=[]}) {
   return {
     render(encounter) {
       const b=bossHudModel(encounter);root.hidden=!b;if(!b)return;
-      title.textContent=`${b.name} · ${b.shielded?'본체 보호 · ':''}남은 부위 ${b.aliveParts}/${b.totalParts}`;
+      title.textContent=b.formationTotal?`${b.name} · 편대 생존 ${b.formationAlive}/${b.formationTotal}`:`${b.name} · ${b.shielded?'본체 보호 · ':''}남은 부위 ${b.aliveParts}/${b.totalParts}`;
       fill.style.width=`${b.fraction*100}%`;track.setAttribute('aria-valuemax',String(b.maxHp));track.setAttribute('aria-valuenow',String(b.hp));
     },
     destroy() {

diff --git a/music.js b/music.js
@@ -19,7 +19,7 @@ const BOSS_TRACKS={
  gik:'bomber',ca4:'bomber',
  'armored-harbor-fortress':'fortress',
  'fliegerzug':'railgun','treffas-wagen':'landship',
- 'jasta11-circus':'bomber','fe2b-flight':'airship'
+ 'jasta11-circus':'duel','naval10-black-flight':'duel'
 };
 // Per-family tempo and bar-root progressions; each family also has its own
 // pattern branch in bossStep.
